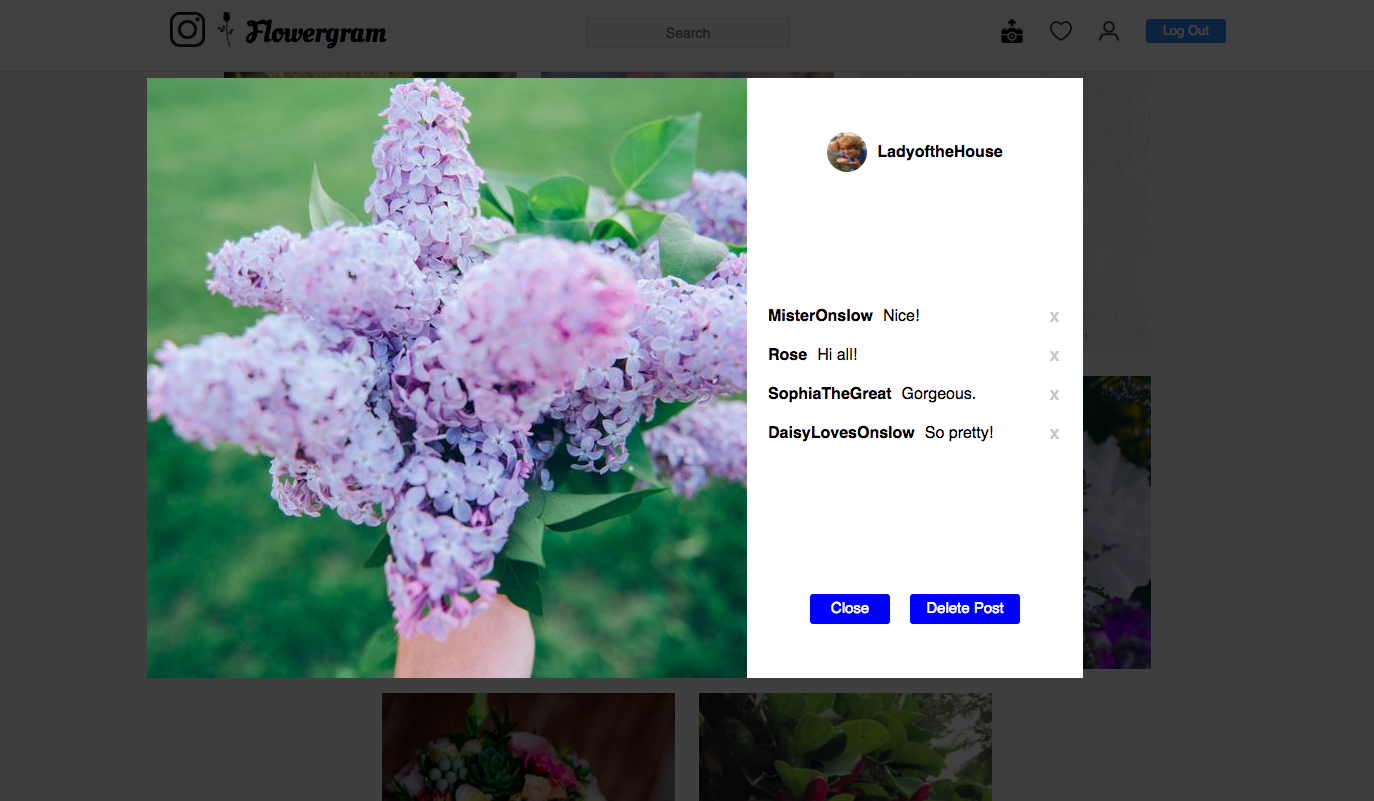
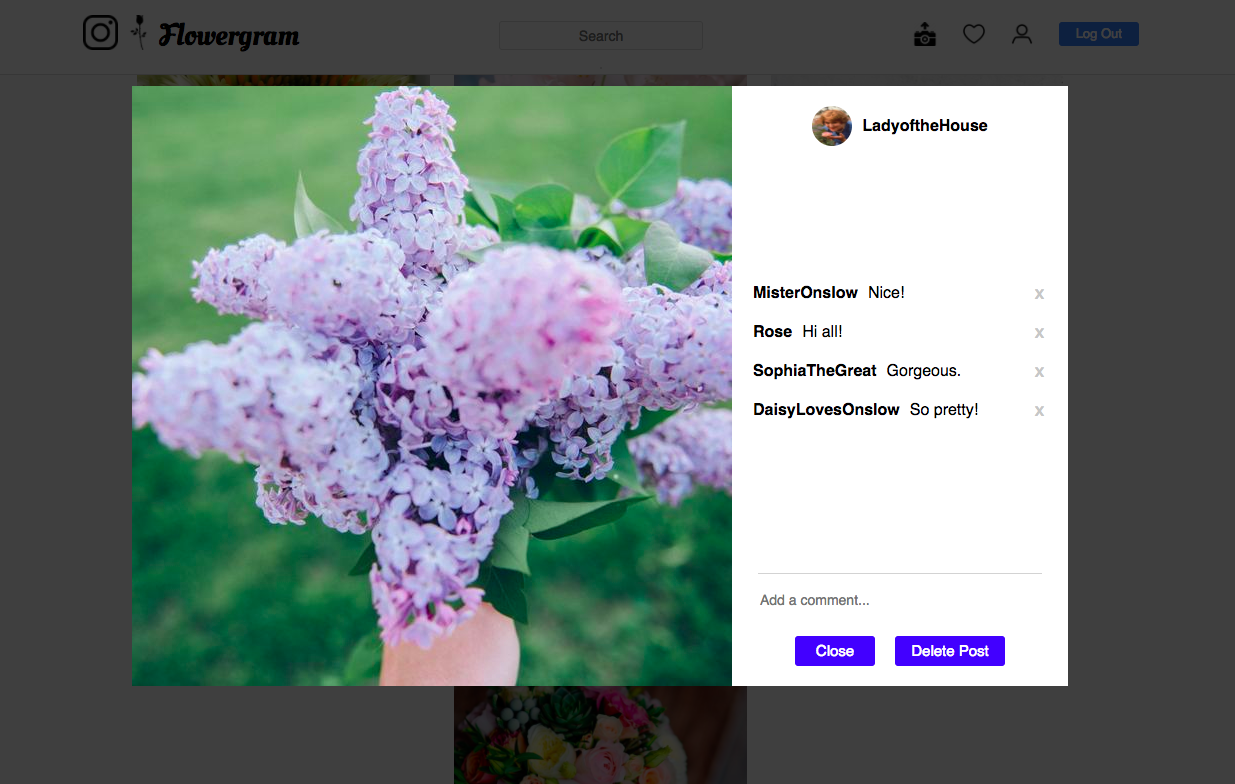
Update README

diff --git a/README.md b/README.md
@@ -30,11 +30,15 @@ Flowergram is a full stack web application inspired by Instagram and built using
 
 ### Profile Rendering
 
-  The profile page includes the information from the users database table, from the columns `username`, `full_name`, `profile_pic`. A follow/unfollow button appears for all user profiles except the logged in user. All pictures from posts the user created appear and when clicked a modal appears. Modals of posts created by the logged in user contain a button to delete the post.
+  The profile page includes the information from the users database table, from the columns `username`, `full_name`, `profile_pic`. A follow/unfollow button appears for all user profiles except the logged in user. All pictures from posts the user created appear chronologically.
 
   The profile page of the logged in user also includes the ability to load, preview, and then finalize a profile picture change.
 
 ![](./app/assets/images/screenshots/profilepage.png)
+
+  Modals of posts are available by clicking on images in a profile page. Modals allow a user to comment and delete posts.
+
+![](./app/assets/images/screenshots/modal.png)
 
 ### User Authentication
 
